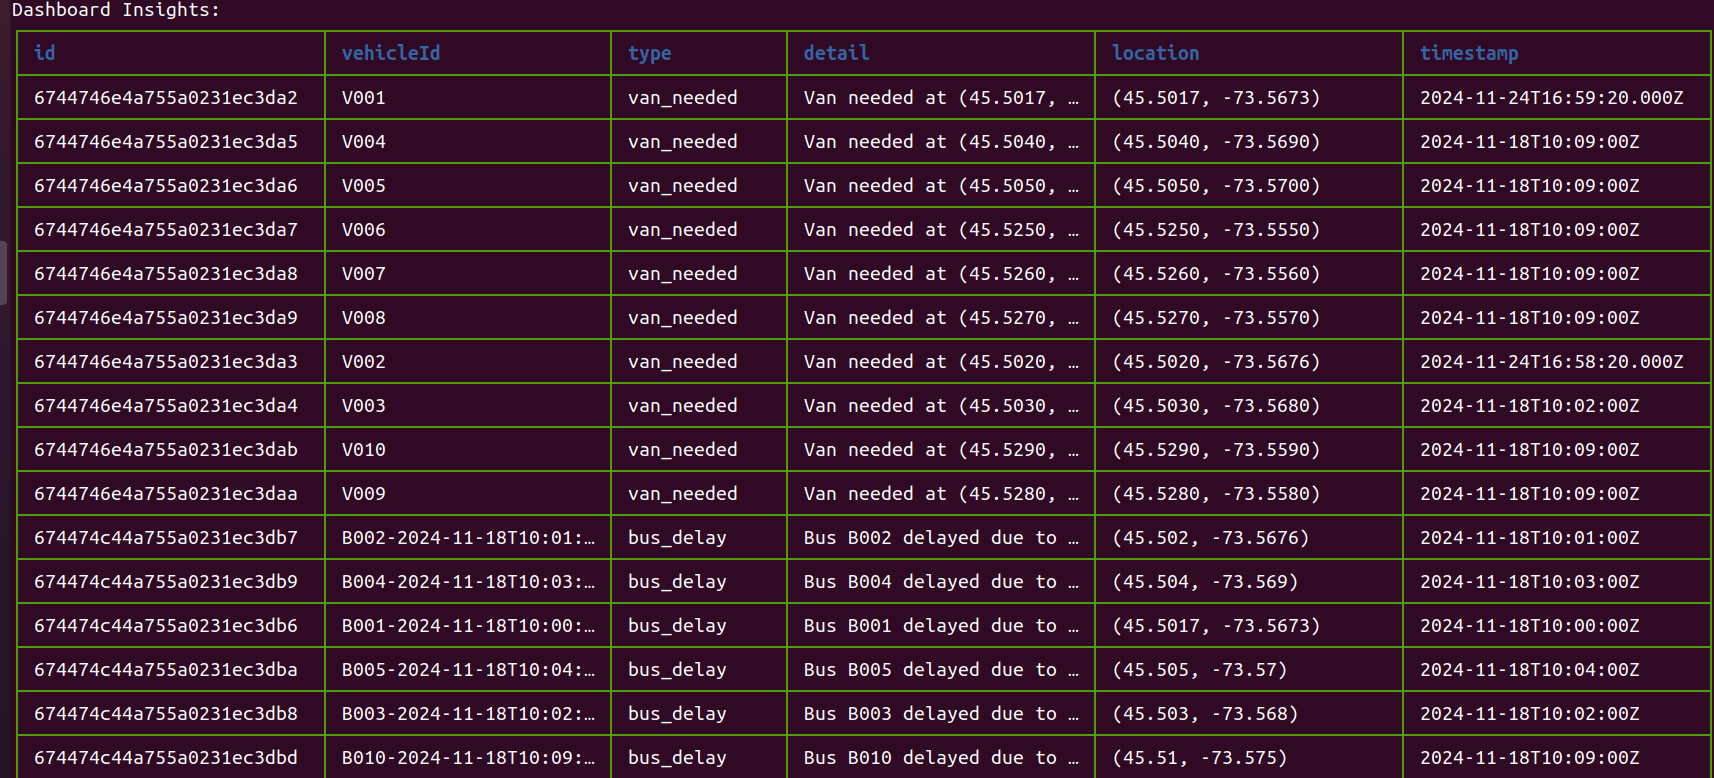
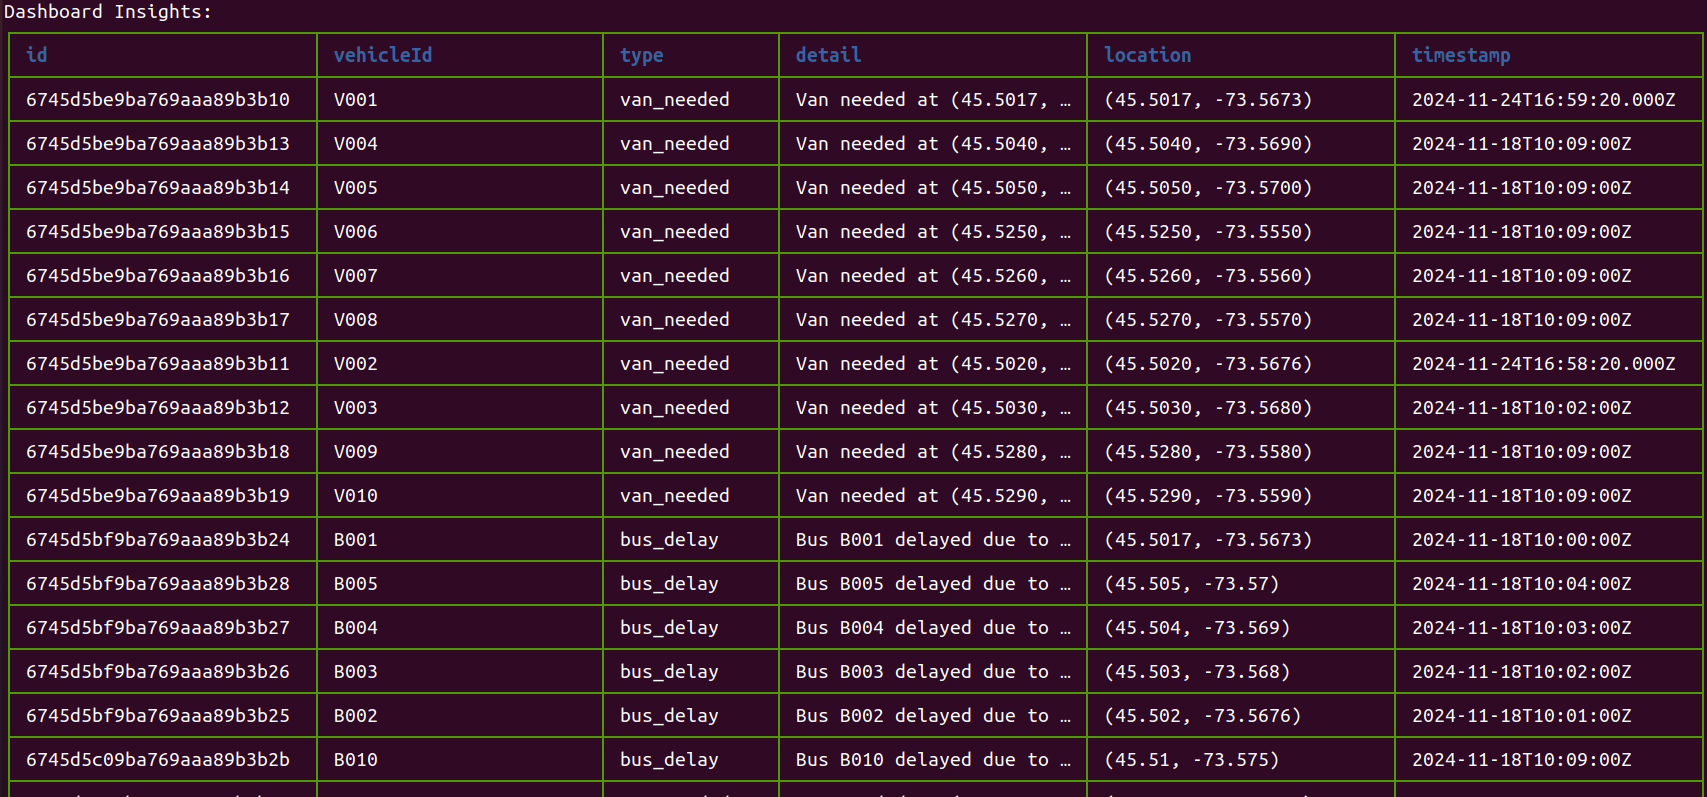
ychange the port no to 3000

Changed region(s): [[0.0, 0.0, 1.0, 1.0]]

diff --git a/src/services/data-processing-layer/bus-weather-correlation.service.ts b/src/services/data-processing-layer/bus-weather-correlation.service.ts
@@ -40,7 +40,7 @@ export const processBusWeatherCorrelation = (
             weatherAtBusLocation.precipitation === WeatherType.RAIN)
         ) {
           saveActionableInsight({
-            vehicleId: `${bus.bus_id}-${bus.timestamp}`,
+            vehicleId: `${bus.bus_id}`,
             type: InsightType.BUS_DELAY,
             detail: `Bus ${bus.bus_id} delayed due to ${weatherAtBusLocation.precipitation}`,
             location: `(${bus.lat}, ${bus.lon})`,
